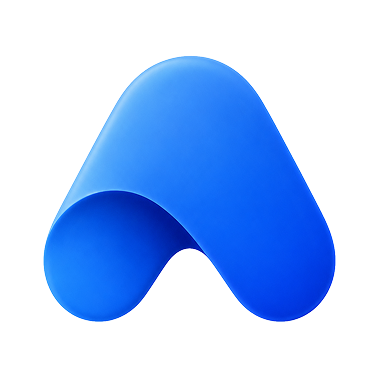
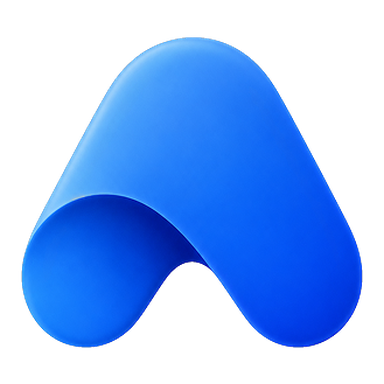
로고 폴리시: 여백제거·크기통일·흰버전·푸터/약관 정리
- 마크/워드마크 autocrop(여백 제거) → 파비콘·사이드바·헤더가 꽉 차게(작아보임 해결)
- 어두운 배경용 흰색 워드마크 생성(ateflo-logo-white.png) + Brand light prop
  → StartLanding 다크 히어로 헤더에서 흰 로고
- Brand 기본 size 26으로 통일(로그인/비로그인 네비 = 사이드바 펼침과 동일)
- 사이드바 접힘 마크 22→26(펼침과 동일 크기)
- 약관 사업자정보: 깨진 디버깅히어로즈 로고 이미지 제거(텍스트만), 파일 삭제

Changed region(s): [[0.0582, 0.0873, 0.9603, 0.9312]]

diff --git a/components/dashboard/DashboardClient.tsx b/components/dashboard/DashboardClient.tsx
@@ -687,7 +687,7 @@ export default function DashboardClient(props: DashboardProps) {
               aria-label="사이드바 열기"
               className="group relative flex h-9 w-9 shrink-0 items-center justify-center rounded-lg transition hover:bg-neutral-100"
             >
-              <span className="absolute inset-0 flex items-center justify-center group-hover:opacity-0"><AteFloLogo size={22} pro={props.plan === "pro"} /></span>
+              <span className="absolute inset-0 flex items-center justify-center group-hover:opacity-0"><AteFloLogo size={26} pro={props.plan === "pro"} /></span>
               <span className="absolute inset-0 flex items-center justify-center text-neutral-700 opacity-0 group-hover:opacity-100">{ICON.panel}</span>
               <span className="pointer-events-none absolute left-11 z-50 whitespace-nowrap rounded-md bg-neutral-900 px-2 py-1 text-xs text-white opacity-0 transition group-hover:opacity-100">사이드바 열기</span>
             </button>

diff --git a/components/Brand.tsx b/components/Brand.tsx
@@ -1,15 +1,15 @@
 import { SITE_NAME } from "@/lib/site";
 
-// 새 로고 — 마크+워드마크 일체형 가로 이미지. (기존 마크+Ubuntu 텍스트 조합 대체)
-// pro 프롭은 호환용으로만 남기고 무시한다(새 로고는 단일).
-export default function Brand({ size = 24 }: { pro?: boolean; size?: number }) {
+// 새 로고 — 마크+워드마크 일체형 가로 이미지.
+// light=true 면 어두운 배경용 흰색 워드마크. pro 프롭은 호환용(무시).
+export default function Brand({ size = 26, light = false }: { pro?: boolean; size?: number; light?: boolean }) {
   return (
     /* eslint-disable-next-line @next/next/no-img-element */
     <img
-      src="/ateflo-logo.png"
+      src={light ? "/ateflo-logo-white.png" : "/ateflo-logo.png"}
       alt={SITE_NAME}
       height={size}
-      className="block w-auto"
+      className="block w-auto max-w-full"
       style={{ height: size, width: "auto" }}
     />
   );

diff --git a/components/StartLanding.tsx b/components/StartLanding.tsx
@@ -887,7 +887,7 @@ export default function StartLanding() {
         <header className={`fixed inset-x-0 top-0 z-50 border-b transition-colors duration-300 ${scrolled ? "border-neutral-200/40 bg-white/70 backdrop-blur" : "border-transparent bg-transparent"}`}>
           <div className="mx-auto flex max-w-5xl items-center justify-between px-6 py-3.5">
             {/* 맨 위(다크 히어로)에선 흰 로고, 스크롤 시 기본(다크) 로고 */}
-            <span className={scrolled ? "" : "[&_span]:text-white"}><Brand /></span>
+            <Brand light={!scrolled} />
             <button onClick={toSignup} className="rounded-xl bg-[#3f91ff] px-4 py-2 text-sm font-semibold text-white transition hover:opacity-90 active:scale-95">사전신청</button>
           </div>
         </header>

diff --git a/components/LegalLayout.tsx b/components/LegalLayout.tsx
@@ -6,12 +6,6 @@ import { BUSINESS, mailOrderText } from "@/lib/business";
 export function BusinessInfo() {
   return (
     <>
-      {/* eslint-disable-next-line @next/next/no-img-element */}
-      <img
-        src="/debugging-heroes-logo.png"
-        alt={`${BUSINESS.company} 로고`}
-        className="mb-4 h-9 w-auto rounded-md"
-      />
       <p>상호: {BUSINESS.company} / 대표자: {BUSINESS.ceo}</p>
       <p>사업자등록번호: {BUSINESS.bizNumber} / 통신판매업 신고번호: {mailOrderText}</p>
       <p>주소: {BUSINESS.address}</p>
